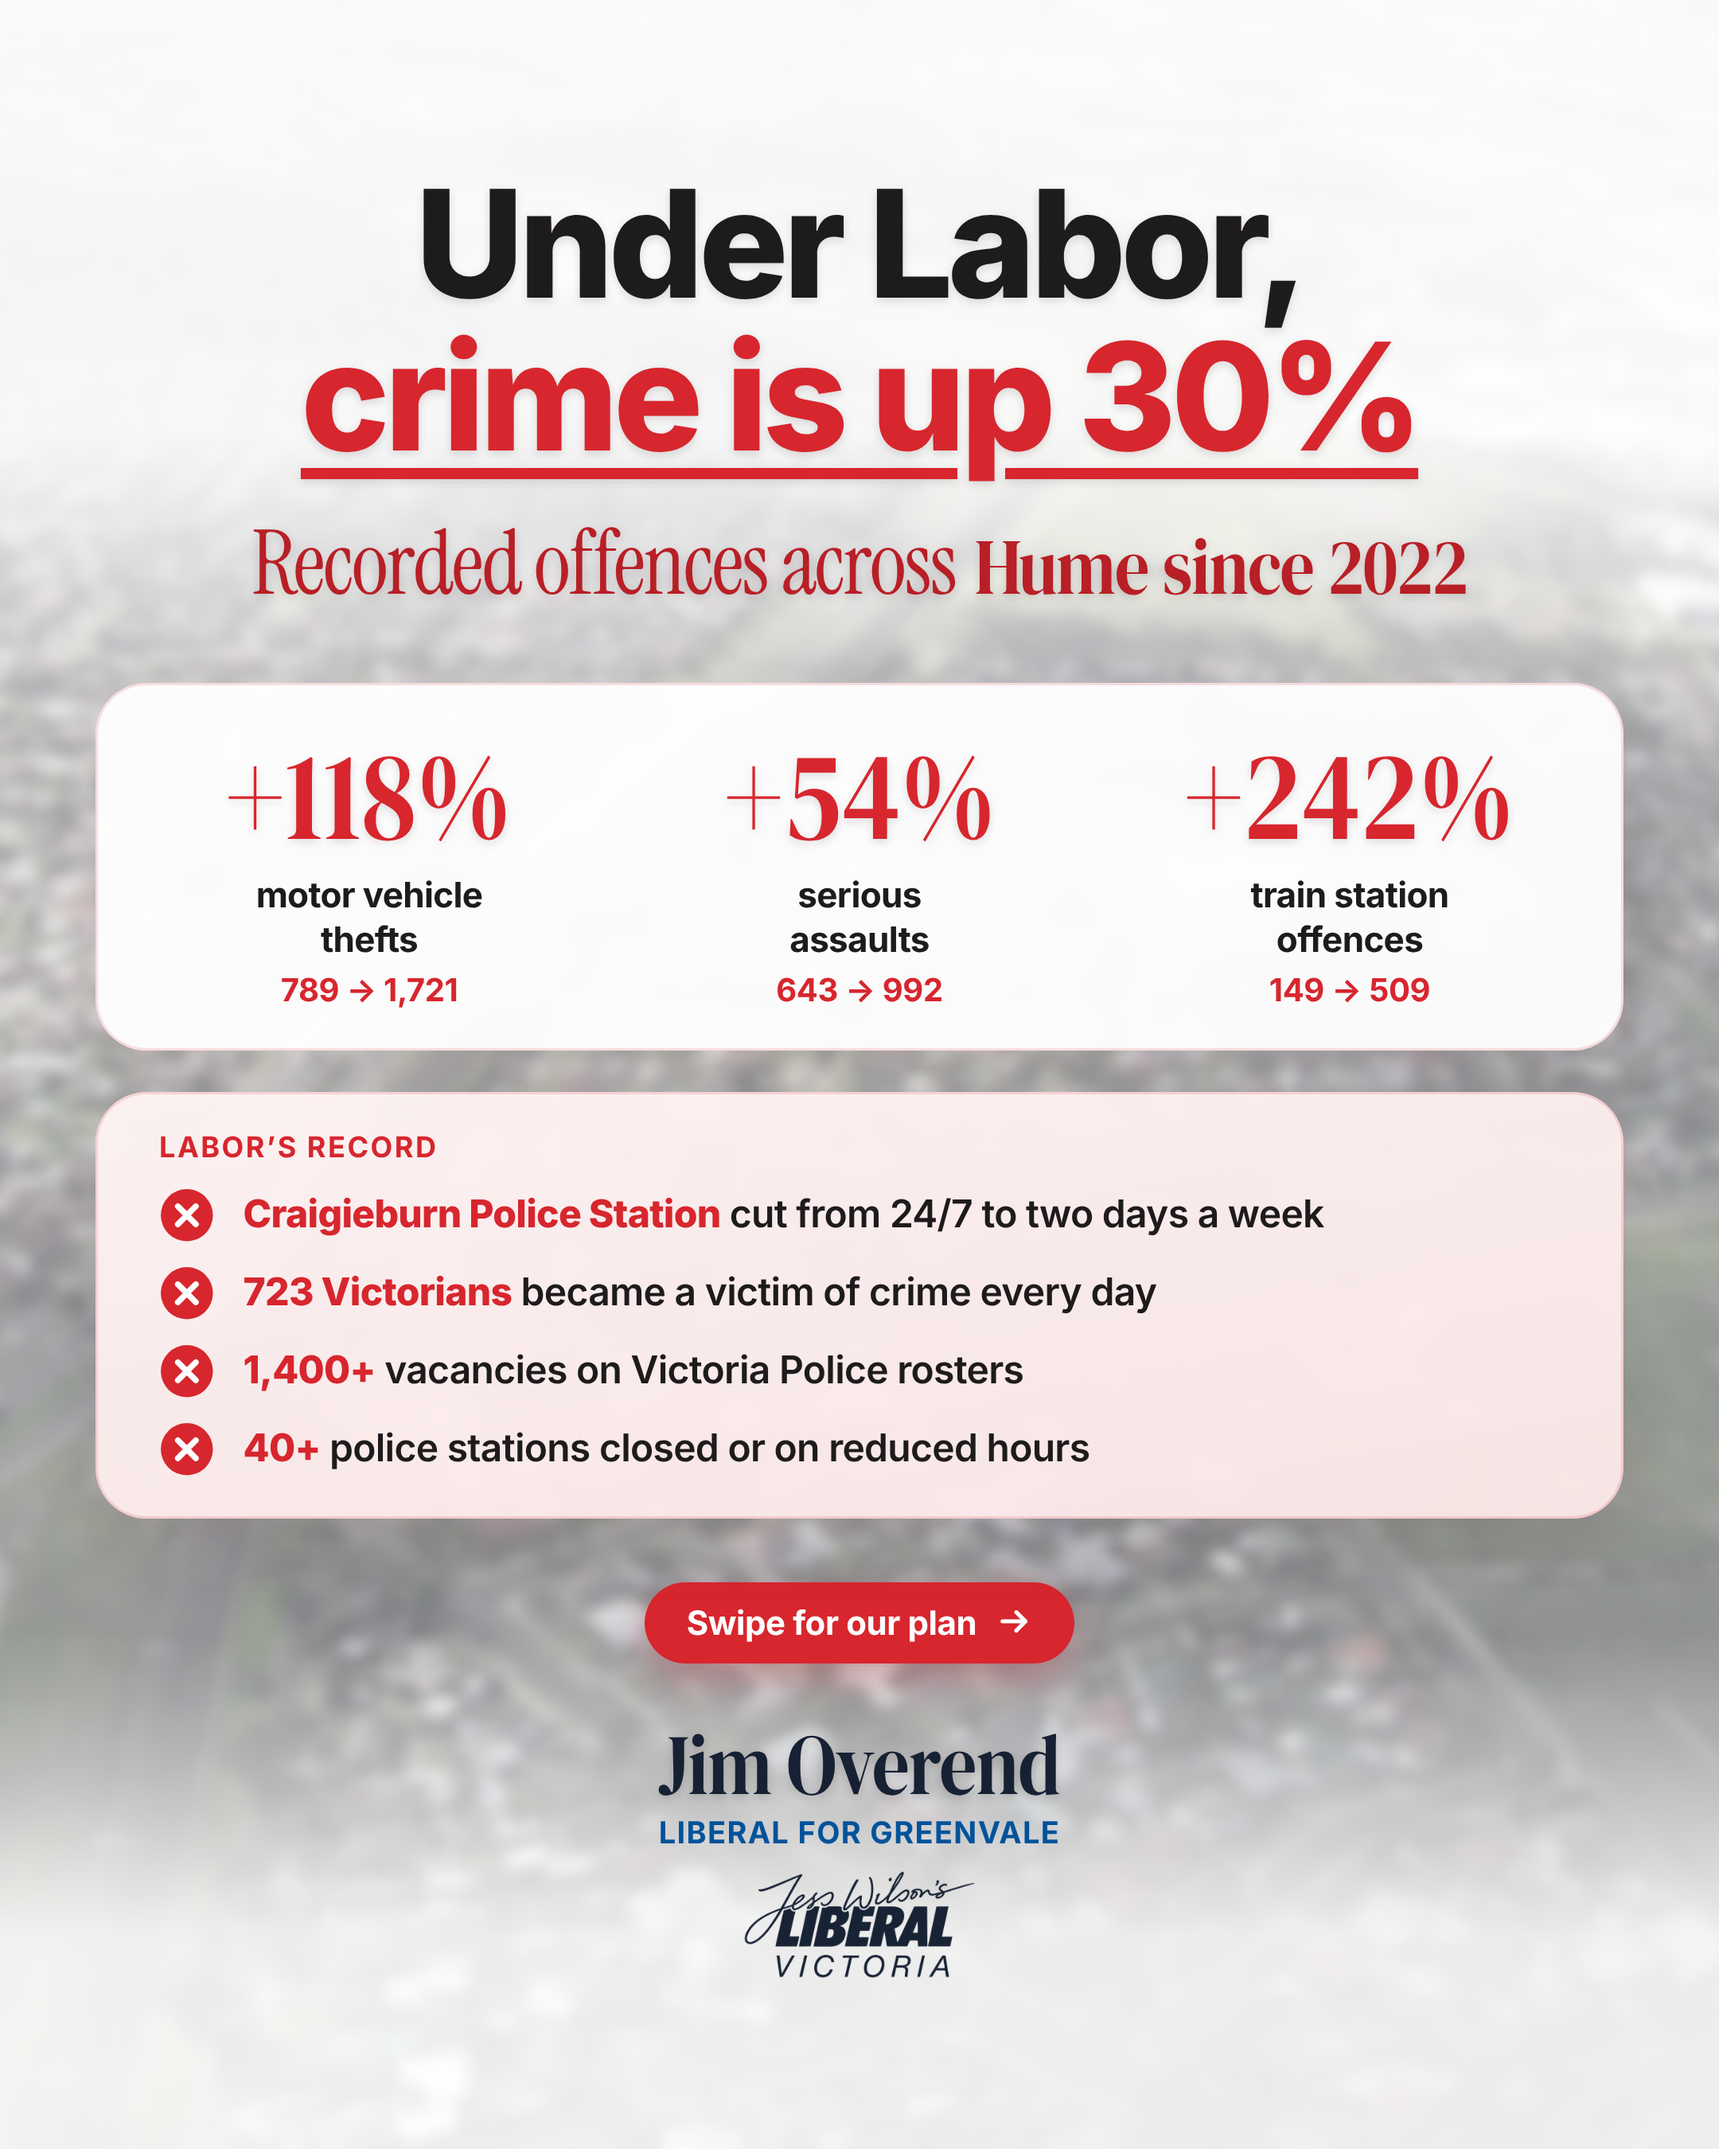
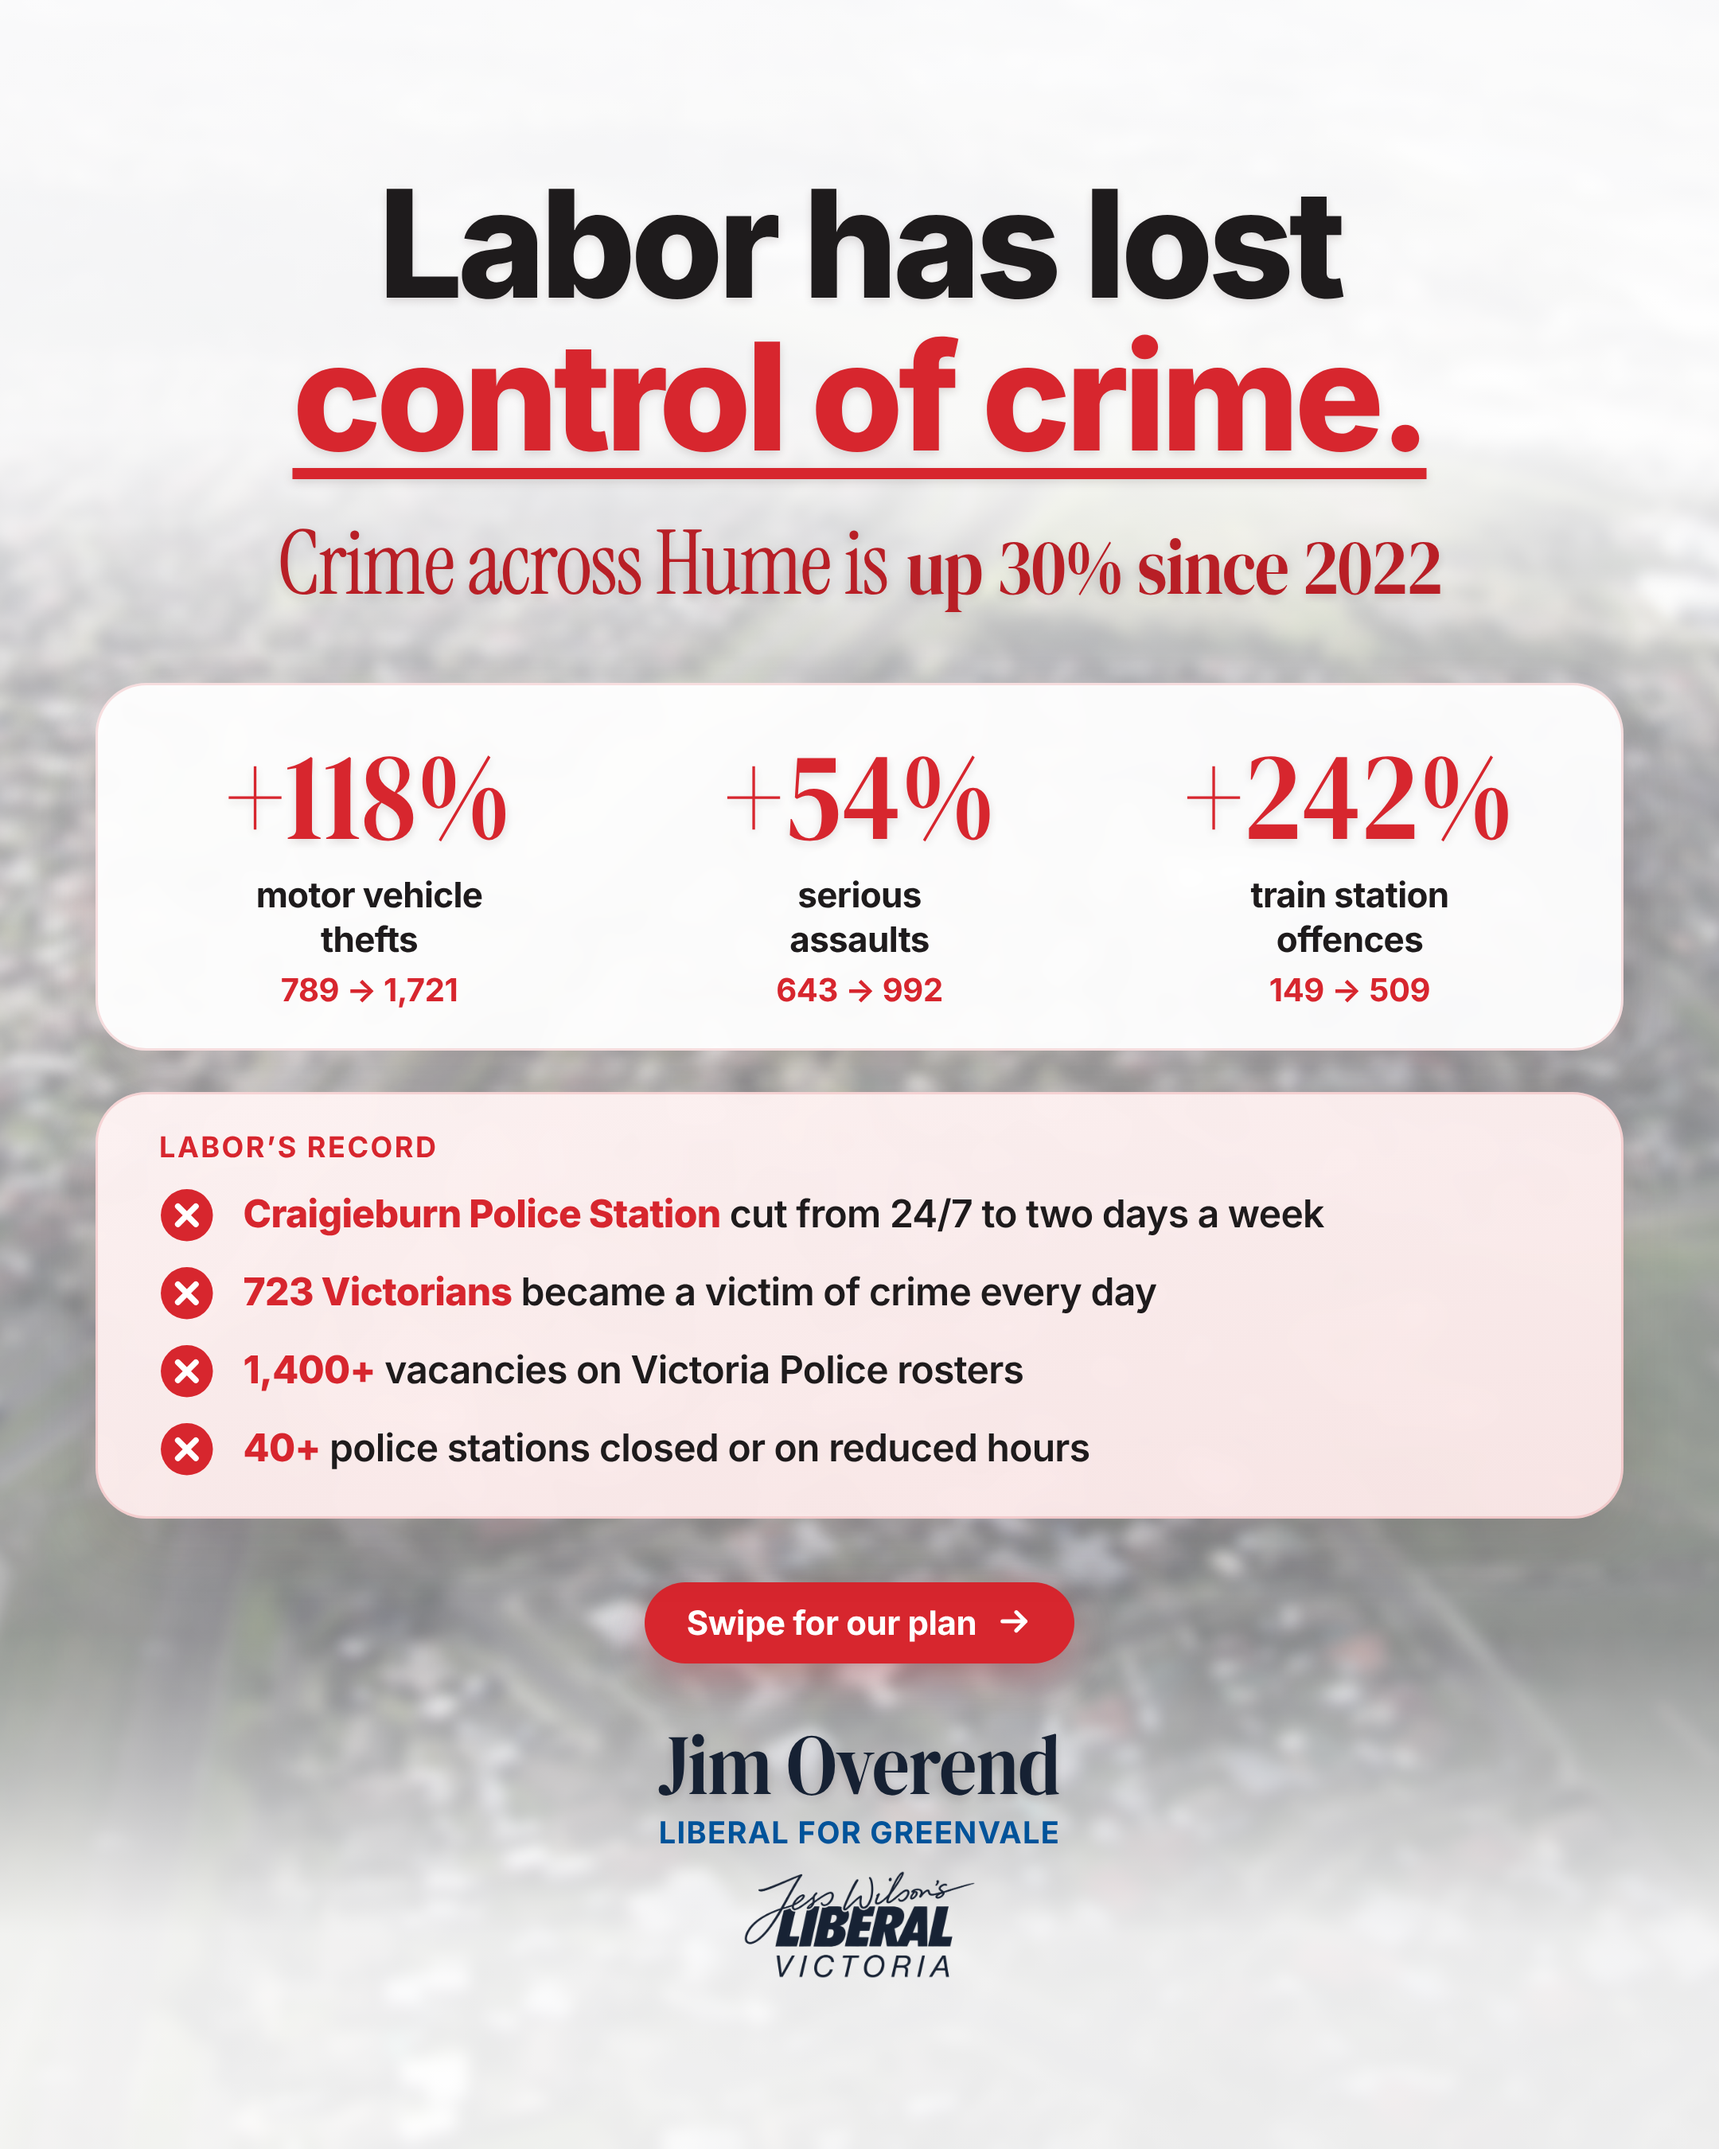
Crime slide 1: headline 'Labor has lost control of crime.'
Claude-Session: https://claude.ai/code/session_01MT6wivusBEagFnhed7SAun

Changed region(s): [[0.1551, 0.0622, 0.8375, 0.2178], [0.1241, 0.2489, 0.8685, 0.28]]

diff --git a/designs/crime-north/source/crime-labor.html b/designs/crime-north/source/crime-labor.html
@@ -62,8 +62,8 @@ h1 .ul{text-decoration:underline;text-decoration-color:var(--red);text-decoratio
 const P = Object.assign({
   // Defaults = the published layout. Override any key via ?p={"key":value} (see render.js).
   wash:[.90,.30,.88], top:106,
-  head:'Under Labor,<br><span class="acc ul">crime is up 30%</span>', hSize:94,
-  lead:'<span class="lt">Recorded offences across</span> <span class="bd">Hume since 2022</span>', leadSize:50,
+  head:'Labor has lost<br><span class="acc ul">control of crime.</span>', hSize:94,
+  lead:'<span class="lt">Crime across Hume is</span> <span class="bd">up 30% since 2022</span>', leadSize:50,
   // Crime Statistics Agency, Hume LGA, year to June 2026 vs year to December 2022: [big, label, before → after]
   stats:[['+118%','motor vehicle<br>thefts','789 → 1,721'],['+54%','serious<br>assaults','643 → 992'],['+242%','train station<br>offences','149 → 509']],
   statN:80, statL:22, statD:20,

diff --git a/designs/crime-north/crime-post.md b/designs/crime-north/crime-post.md
@@ -9,7 +9,7 @@ Two 1080×1350 slides (plus `@2x`, 2160×2700) in the same style as the Technica
 
 ## Post caption (ready to paste)
 
-Under Labor, crime across Hume is up 30% since 2022.
+Labor has lost control of crime. Across Hume, crime is up 30% since 2022.
 
 Motor vehicle thefts have more than doubled. Serious assaults are up 54%. Offences at our train stations have more than tripled. And Craigieburn Police Station has gone from being open 24/7 to just two days a week.
 
@@ -35,12 +35,12 @@ Victorians deserve to feel safe again.
 
 ## Slide copy and where each figure comes from
 
-### Slide 1 — "Under Labor, crime is up 30%"
-Serif line: *Recorded offences across **Hume since 2022***
+### Slide 1 — "Labor has lost control of crime."
+Serif line: *Crime across Hume is **up 30% since 2022***
 
 | On the slide | Figure | Source |
 |---|---|---|
-| crime is up 30% | Total offences 18,186 → 23,691 (+30%) | CSA, Hume LGA, YE Jun 2026 vs YE Dec 2022 |
+| up 30% since 2022 | Total offences 18,186 → 23,691 (+30%) | CSA, Hume LGA, YE Jun 2026 vs YE Dec 2022 |
 | +118% motor vehicle thefts | 789 → 1,721 | same |
 | +54% serious assaults | 643 → 992 | same |
 | +242% train station offences | 149 → 509 (location: train station) | same |
